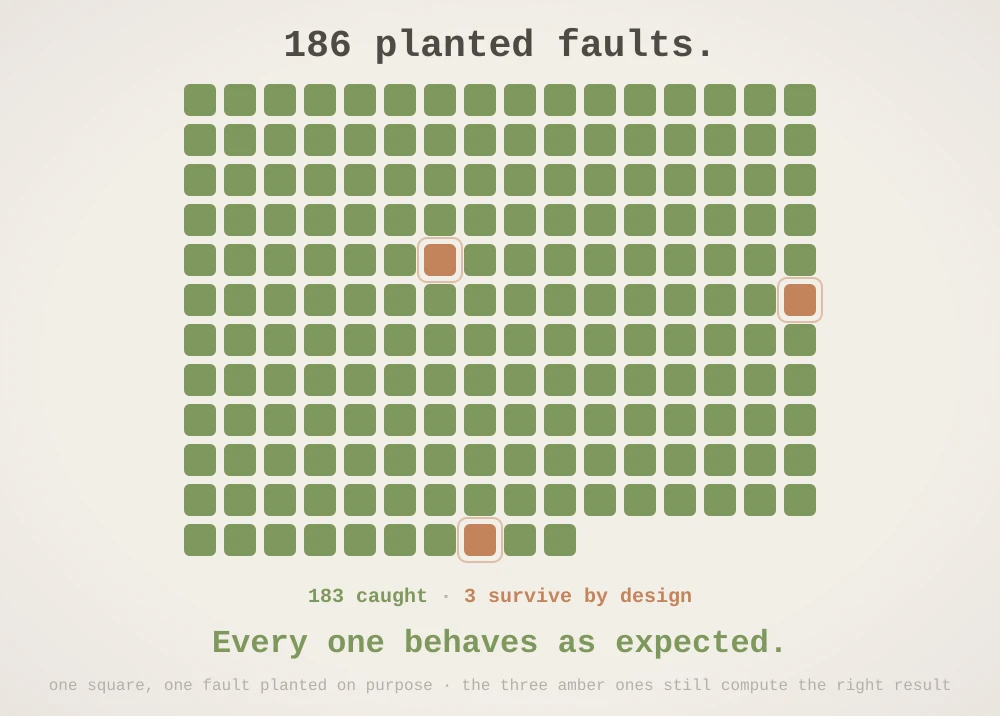
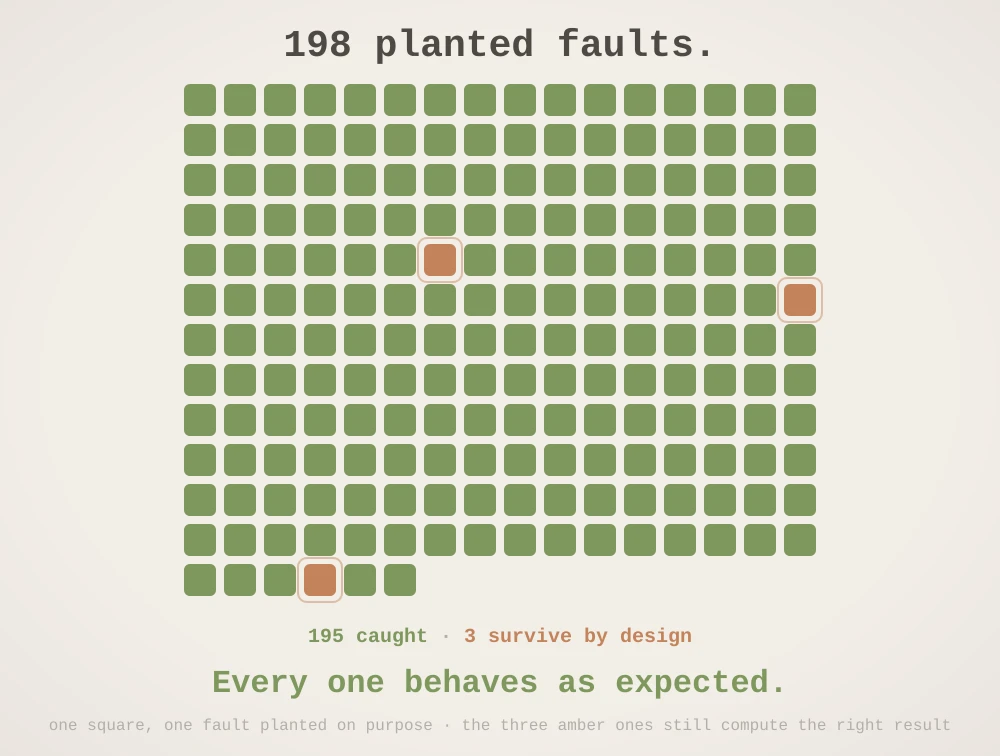
README: 198 planted faults, 195 caught and 3 by design, the chart redrawn

diff --git a/README.md b/README.md
@@ -7,7 +7,7 @@
   <a href="LICENSE"><img src="https://img.shields.io/badge/license-MIT-8b83b5?style=flat-square&labelColor=4d4a44" alt="MIT license"></a>
   <a href="https://bend-lang.com"><img src="https://img.shields.io/badge/Bend-2.0.40-8b83b5?style=flat-square&labelColor=4d4a44" alt="Bend 2.0.40"></a>
   <img src="https://img.shields.io/badge/laws%20proved-42-7e9a5e?style=flat-square&labelColor=4d4a44" alt="42 laws proved">
-  <img src="https://img.shields.io/badge/planted%20bugs-186%2F186%20as%20expected-7e9a5e?style=flat-square&labelColor=4d4a44" alt="186 planted bugs, 186 as expected">
+  <img src="https://img.shields.io/badge/planted%20bugs-198%2F198%20as%20expected-7e9a5e?style=flat-square&labelColor=4d4a44" alt="198 planted bugs, 198 as expected">
 </p>
 
 **BendTorch** trains neural networks in [Bend 2](https://bend-lang.com) with general pieces: layers with typed forward
@@ -87,13 +87,13 @@ them again with Bend's kernel proved in Lean, with no `@unsafe`, no `?TODO` and 
 explains each proof. The linear laws are about an exact model where numbers are `Nat`; the F32 code computes the same
 formulas and is tested, not proved, to do so.
 
-186 deliberate faults planted in the code and the specification (`scripts/mutate.py`) each behave as expected: 183
+198 deliberate faults planted in the code and the specification (`scripts/mutate.py`) each behave as expected: 195
 are caught by a law or a test, and three survive by design, because they still compute the right result. One is right
 by accident (a one-cell array wraps every index to 0), and a bounds check catches the same fault; one only changes a
 GPU block size, and any block size that divides a row gives the same sum, bit for bit: the law `block_sum` proves it;
 the third lets packed AdamW write past n into cells that hold zeros and stay zero.
 
-<p align="center"><img src="docs/media/mutants.webp" alt="186 planted faults: 183 caught, 3 survive by design" width="80%"></p>
+<p align="center"><img src="docs/media/mutants.webp" alt="198 planted faults: 195 caught, 3 survive by design" width="80%"></p>
 
 ## 03 · It trains, and it computes what PyTorch computes
 
@@ -215,7 +215,7 @@ Linux x86_64, clang, Python 3.14, `curl`. The Python venv with PyTorch takes abo
 make setup   # Bend 2.0.40 (SHA256-checked), Lean 4.34.0, the Python venv of reference/; no sudo
 make data    # MNIST and Tiny Shakespeare into data/, the twins' initial weights and batches (seed 0)
 make check   # the laws (--verdict), the rejected programs, every layer, the MLP, MNIST, the Llama and a SmolLM2-sized block against PyTorch (~2 min)
-make mutate  # the 186 deliberate faults
+make mutate  # the 198 deliberate faults
 make bench   # BendTorch against PyTorch on MNIST, the tiny Llama and the block (~6 min)
 make check-js  # the same tests on the JavaScript build, run with Bun; the outputs must be the native build's bits
 ```

diff --git a/docs/design.md b/docs/design.md
@@ -168,7 +168,7 @@ algebra of the formulas (`dy·(W·x) == (Wᵀ·dy)·x`), with no rounding to rea
 (`F32.mul(3.0, 3.0)` does not reduce), so a law about F32 values can only treat the operations as uninterpreted; no
 IEEE 754 property is claimed anywhere.
 
-`scripts/mutate.py` changes the code and the specification on purpose (186 mutants) and checks that a gate fails. A
+`scripts/mutate.py` changes the code and the specification on purpose (198 mutants) and checks that a gate fails. A
 mutant that survives a gate is listed with the reason (today three: the whole-tensor sum's index map, which the
 numbers miss by accident and a bounds check catches, and two equivalent mutants, the GPU cross-entropy's block size and
 the packed AdamW's last block; since M8 the laws catch the two that used to slip past them, `kv_of` bypassed and a softmax over one
